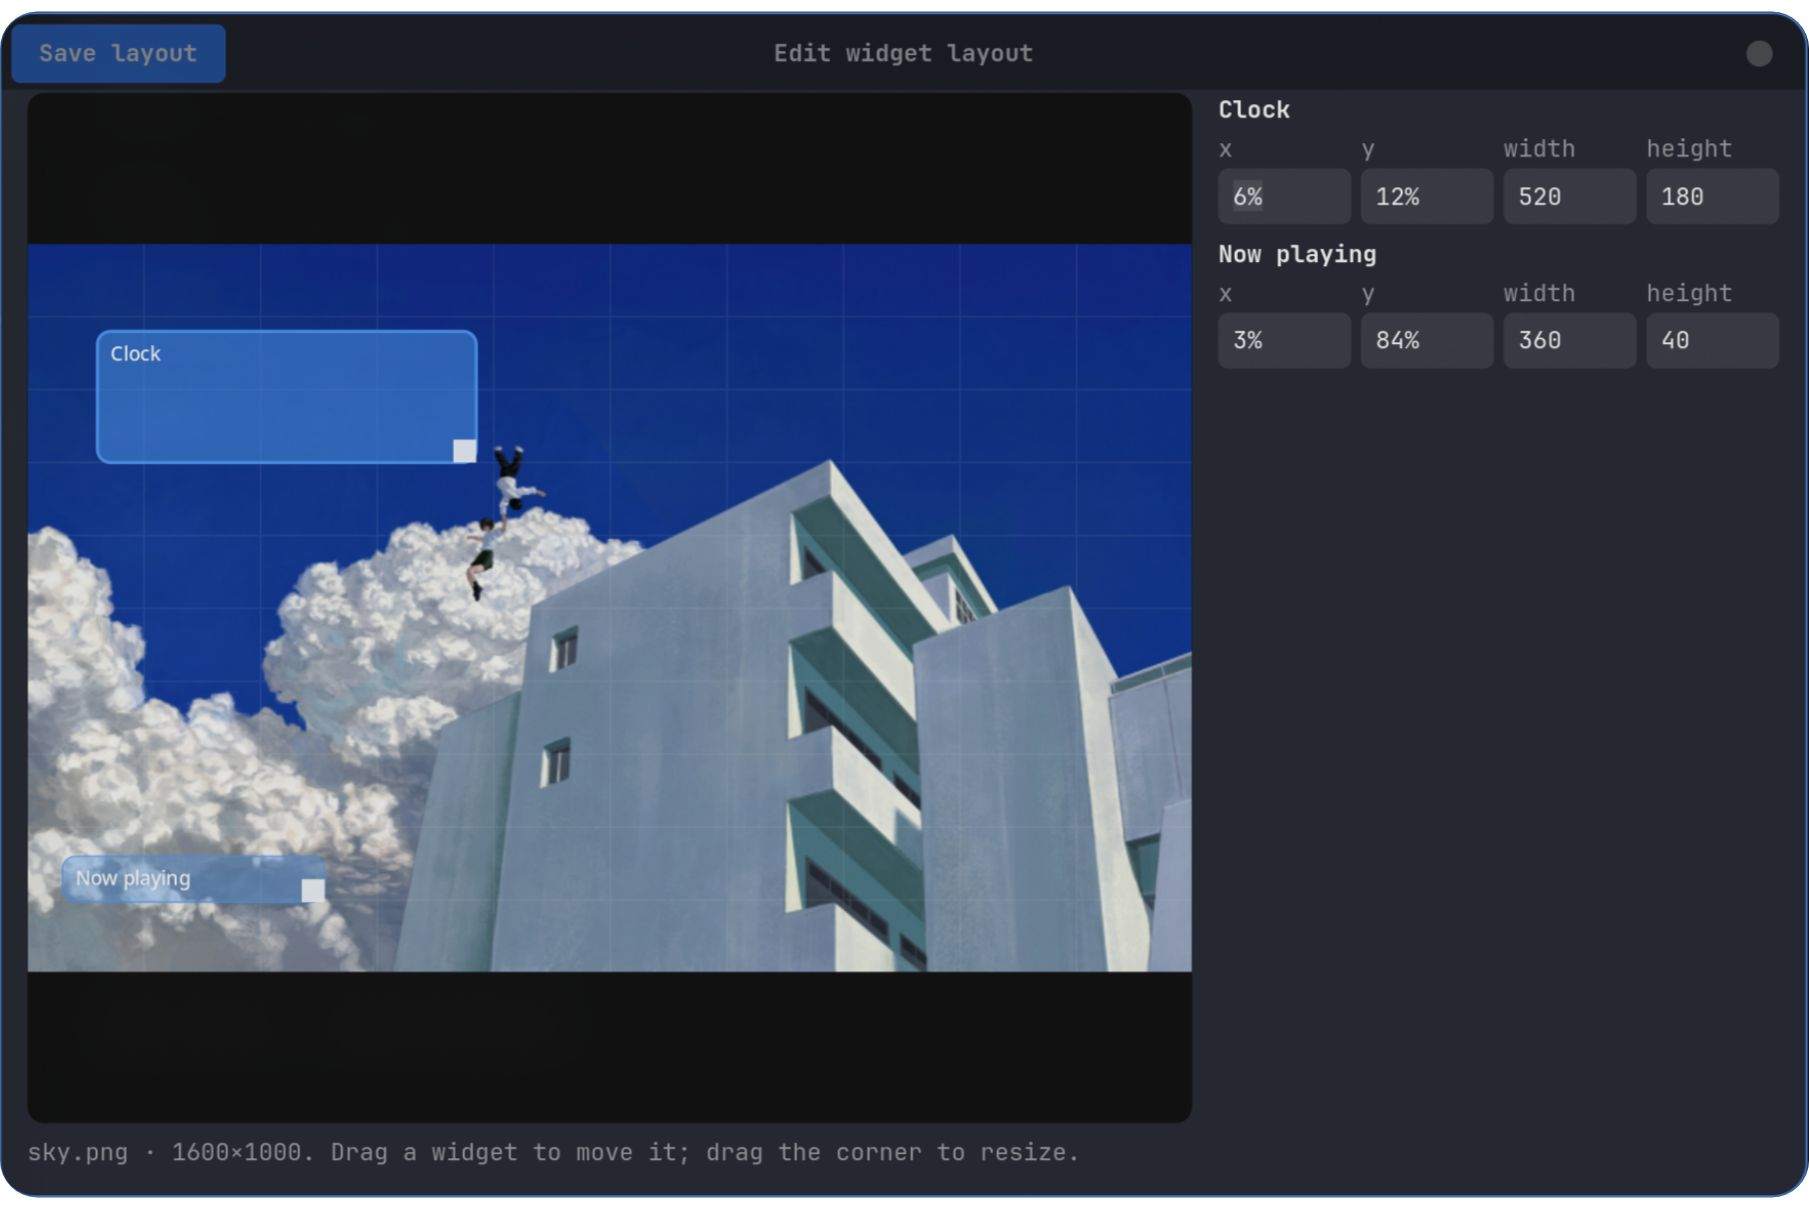
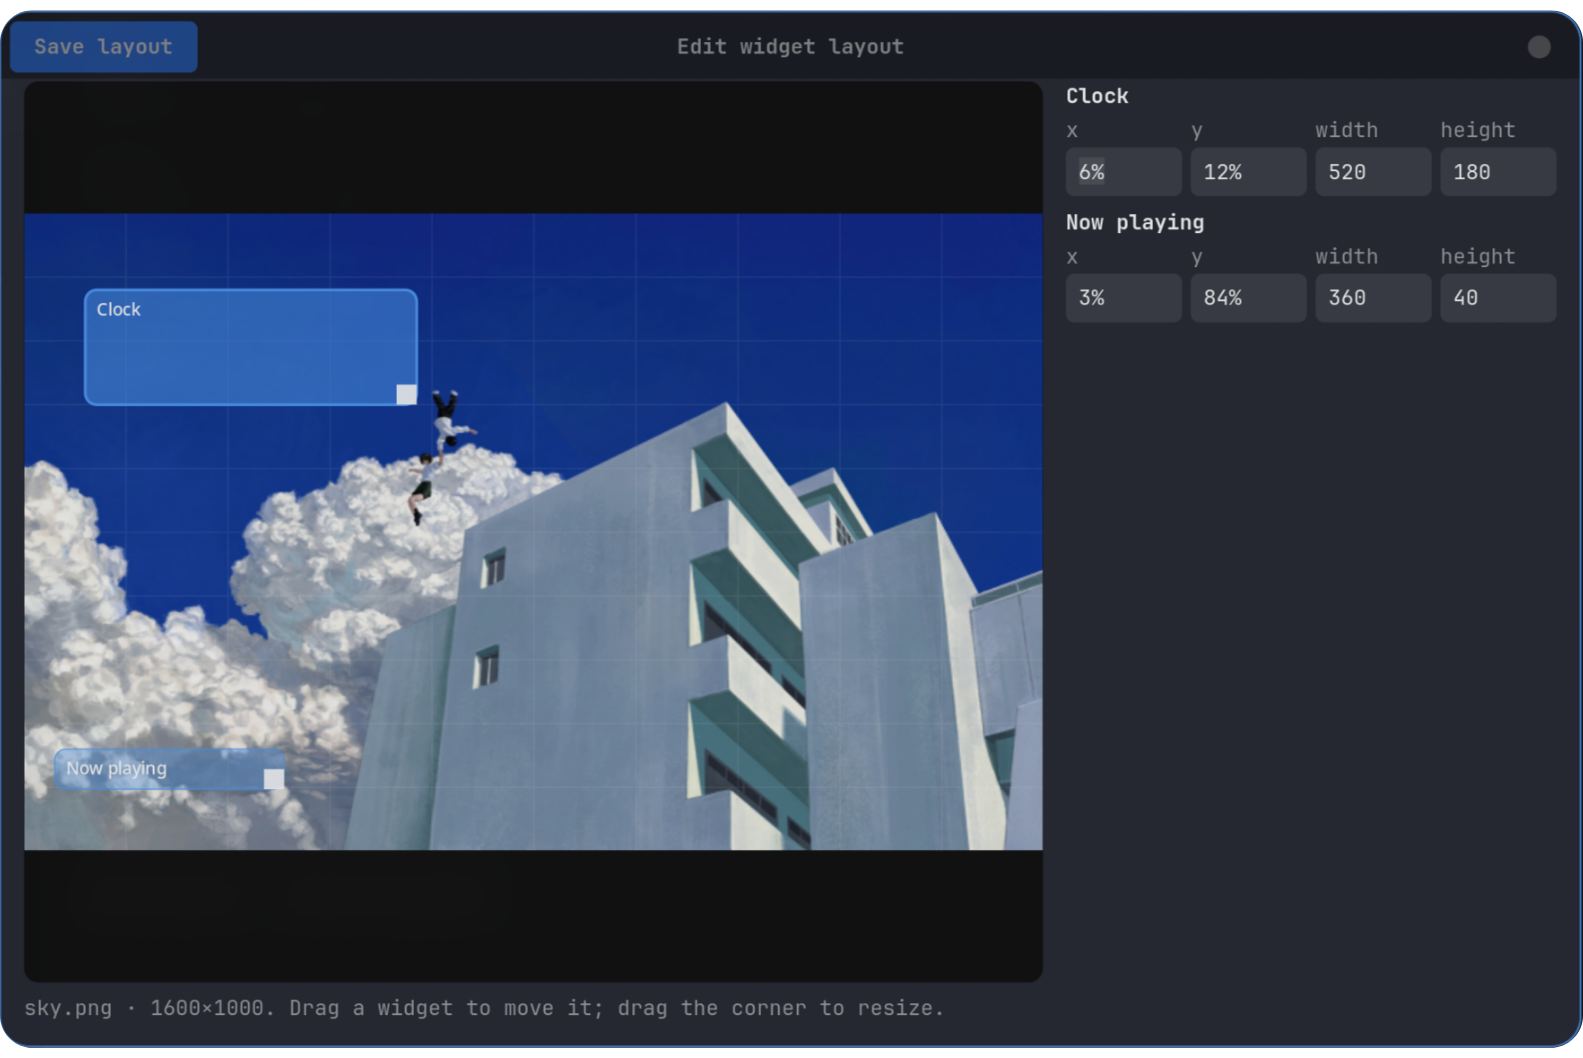
fix: update control center screenshot to webp format

Changed region(s): [[0.031, 0.0, 1.0, 0.9981]]

diff --git a/README.md b/README.md
@@ -298,7 +298,7 @@ More bars live in [`layouts/bars/`](layouts/bars). Made in-house: `default`, `co
 Not a terminal person? Run **`hat gui`** and click around. Every theme is a tile. Click one and your desktop changes. GIF previews even play right inside the tile.
 
 <p align="center">
-  <img src="docs/screenshots/gui/overview.jpg" alt="The HyprAesthetic control center, open on the Presets page" width="100%">
+  <img src="docs/screenshots/gui/overview.webp" alt="The HyprAesthetic control center, open on the Presets page" width="100%">
 </p>
 
 Eight pages. One clear job each.
